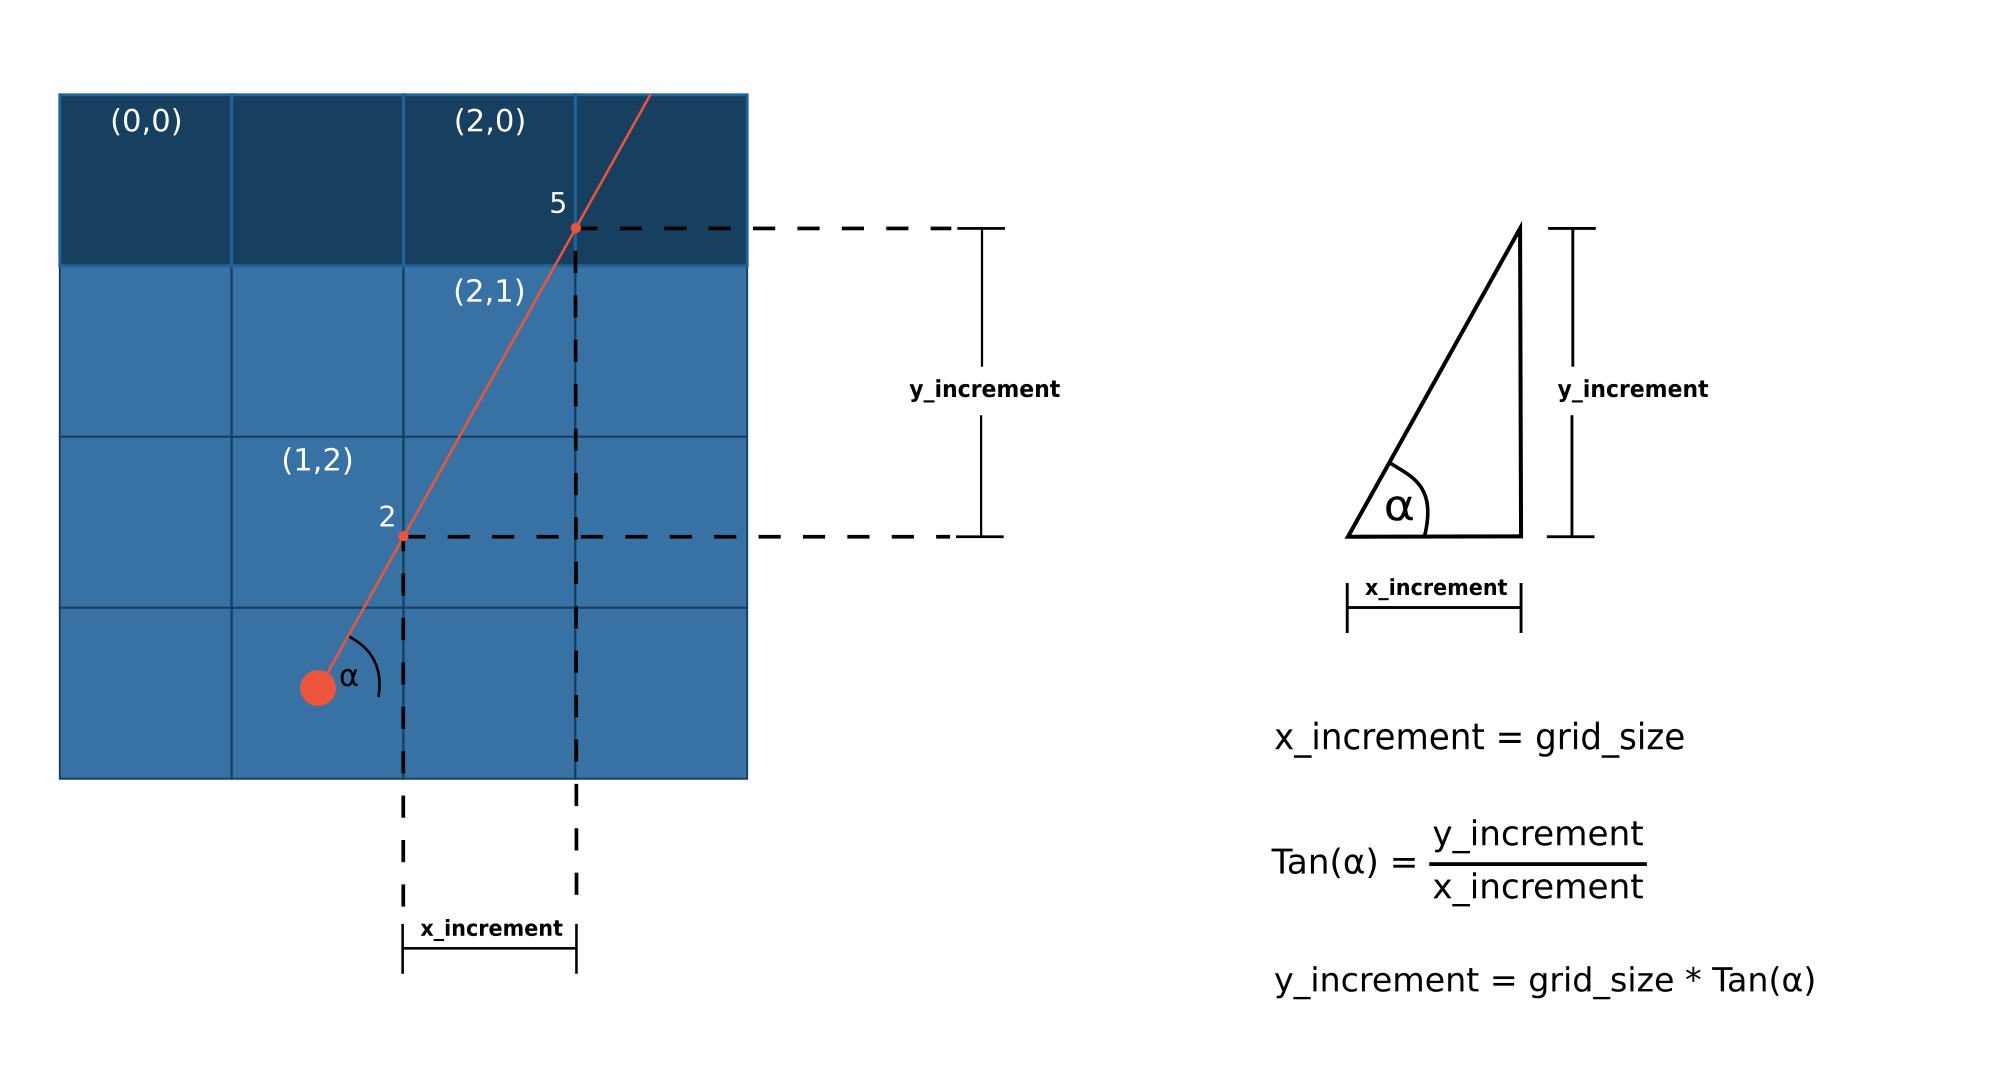
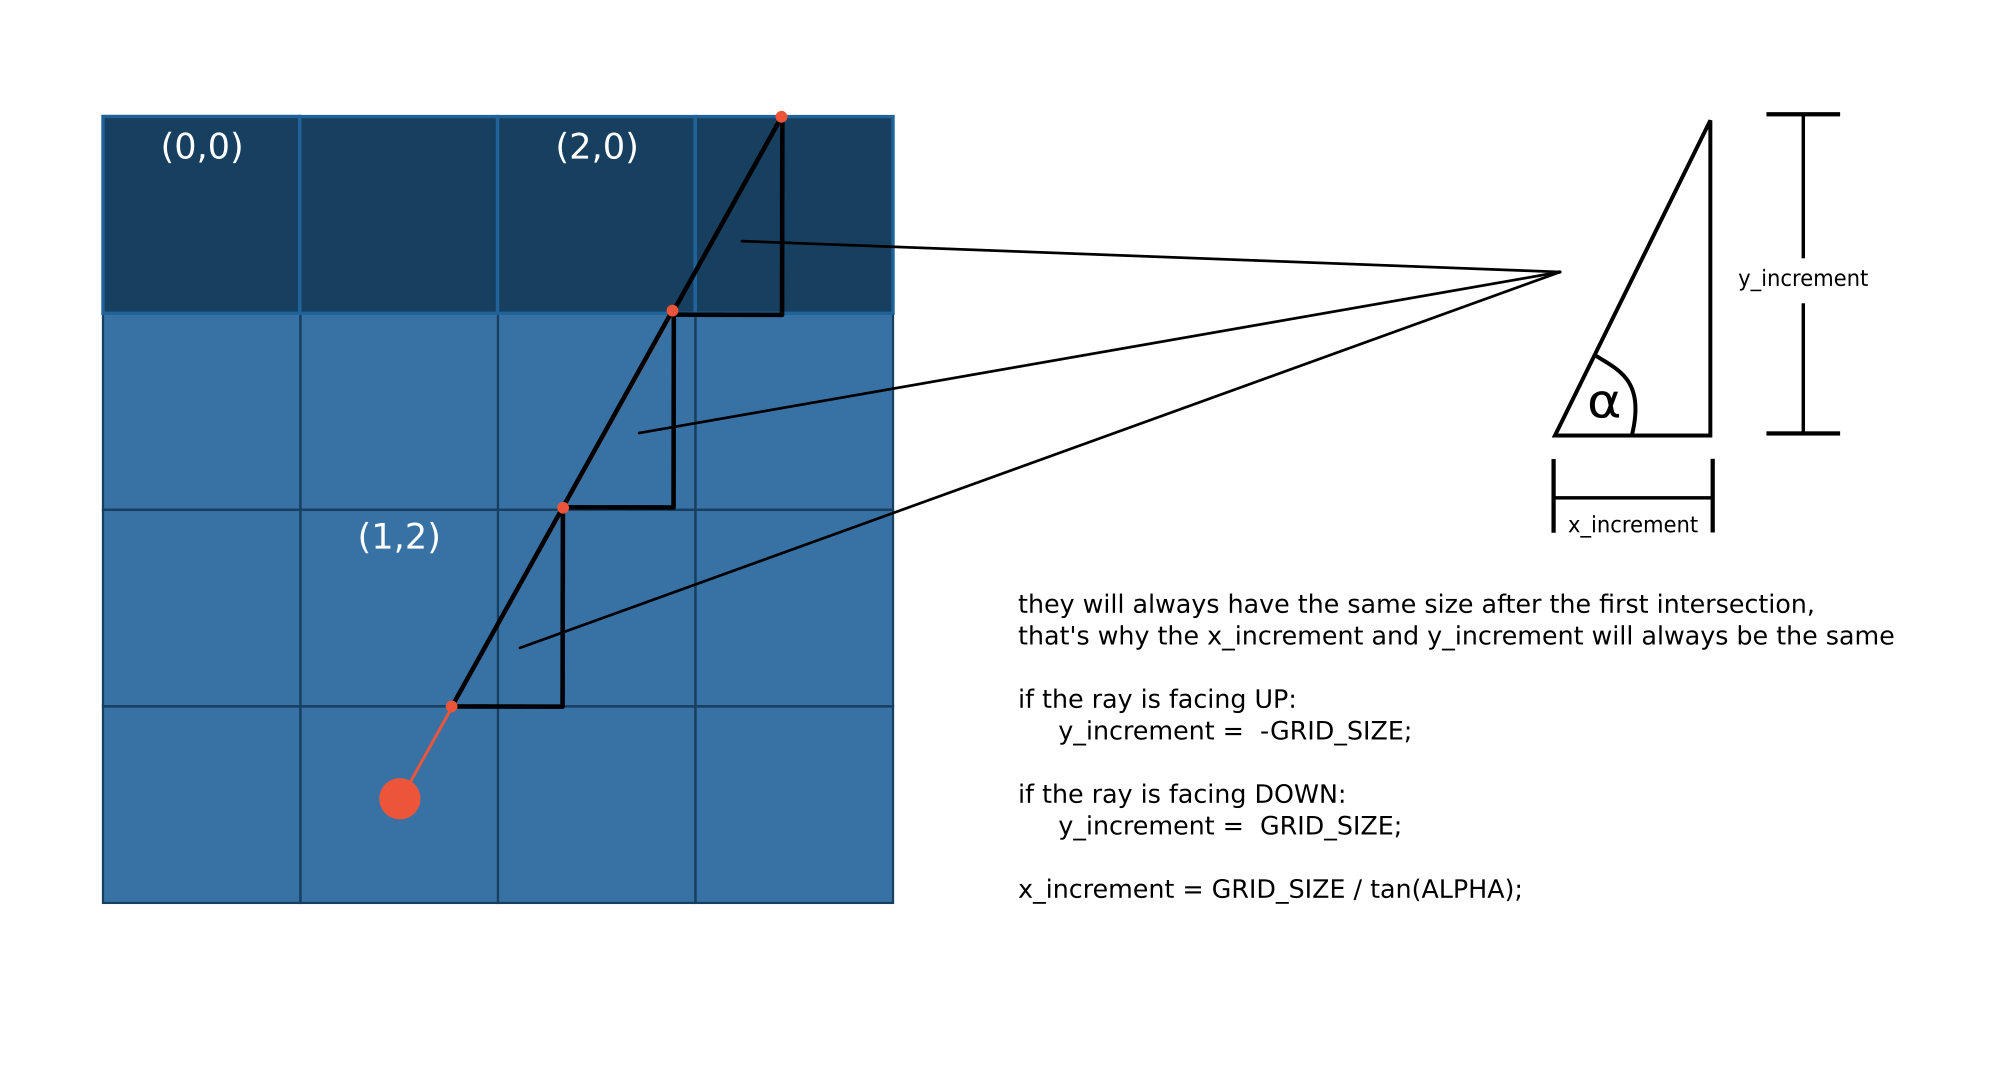
Adding more info to README

diff --git a/README.md b/README.md
@@ -6,7 +6,16 @@
   - [STEP 2: Defining projection attributes](#step-2-defining-projection-attributes)
   - [STEP 3: Finding walls](#step-3-finding-walls)
       - [Steps of finding intersections with horizontal grid lines:](#steps-of-finding-intersections-with-horizontal-grid-lines)
+        - [1. Finding y_increment](#1-finding-y_increment)
+        - [2. Finding x_increment](#2-finding-x_increment)
+        - [3. We can get the coordinate of the next intersection as follows:](#3-we-can-get-the-coordinate-of-the-next-intersection-as-follows)
+        - [4. Convert this into grid coordinate by dividing each component with GRID_SIZE.](#4-convert-this-into-grid-coordinate-by-dividing-each-component-with-grid_size)
+        - [5. repeat the process until we hit a wall.](#5-repeat-the-process-until-we-hit-a-wall)
       - [Steps of finding intersections with vertical grid lines:](#steps-of-finding-intersections-with-vertical-grid-lines)
+        - [1. Find coordinate of the first intersection (point 2 in this example).](#1-find-coordinate-of-the-first-intersection-point-2-in-this-example)
+        - [2. Find x_increment.](#2-find-x_increment)
+        - [3. Find y_increment](#3-find-y_increment)
+        - [4. Check the grid at the intersection point.](#4-check-the-grid-at-the-intersection-point)
 
 
 ## STEP 1: creating a world
@@ -123,98 +132,91 @@ As an example the following is how you can get the point 1:
 
 ![figure 11](./images/figure11.png)
 
-  1. Finding the coordinate of intersection 1.  
-     If the ray is facing up
-      **1.y = rounded_down( player_y / grid_size ) * (grid_size) - 1;**
-     If the ray is facing down
-      **1.y = rounded_down( player_y / grid_size ) * (grid_size) + grid_size;**
-
-   (In the picture, the ray is facing up, so we use
-   the first formula.
-   **1.y = rounded_down( 224 / 64 ) * (64) - 1 = 191;**
-   Now at this point, we can find out the grid 
-   coordinate of y.
-   However, we must decide whether A is part of 
-   the block above the line,
-   or the block below the line.  
-   Here, we chose to make A part of the block
-   above the line, that is why we subtract 1 from 1.y.
-   So the grid coordinate of 1.y is 191/64 = 2;
-
-   **1.x = player_x + (Py-1.y) / tan(ALPHA);**
-   In the picture, (assume ALPHA is 60 degrees), 
-   **1.x = 96 + ( 224 - 191 ) / tan(60) = about 115;**
-   The grid coordinate of 1.x is 115/64 = 1;
-
-   So 1 is at grid **(1,2)** and we can check 
-   whether there is a wall on that grid.
-   There is no wall on **(1,2)** so the ray will be 
-   extended to intersection 3.
-
-1. Finding y_increment
-   If the ray is facing up
-     **y_increment = -grid_size;**
-   If the ray is facing down
-     **y_increment = grid_size;**
-
-2. Finding x_increment
-   **x_increment = 64 / tan(60) = 36;**
-
-3. We can get the coordinate of intersection 3 as follows:
-   **3.x = 1.x + x_increment = 115 + 36 = 151;**
-   **3.y = 1.y + y_increment = 191 - 64 = 127;**
-   Convert this into grid coordinate by 
-   dividing each component with 64.  
-   The result is 
-   **3.x = 151 / 64 = 2 (grid coordinate),**
-   **3.y = 127 / 64 = 1 (grid coordinate)** 
-   So the grid coordinate of intersection 3 is **(2, 1)**.  
-   (C programmer's note: Remember we always round down, 
-   this is especially true since
-   you can use right shift by 8 to divide by 64).
-
-4. Grid **(2,1)** is checked.  
-   Again, there is no wall, so the ray is extended 
-   to intersection 4.  
+   (In the picture, the ray is facing up, so we use the first formula.
+      
+      1.y = rounded_down( 224 / 64 ) * (64) = 192;
    
-5. We can get the coordinate of D as follows:
-   **4.x= 3.x + x_increment = 151 + 36 = 187;**
-   **4.y= 3.y + y_increment = 127 - 64 = 63;**
-   Convert this into grid coordinate by 
-   dividing each component with 64.
-   The result is 
-   **4.x = 187 / 64 = 2 (grid coordinate),** 
-   **4.y = 63 / 64 = 0 (grid coordinate)** 
-   So the grid coordinate of D is (2, 0).  
+   The ray is facing up and we want to check the grid above the line, that's why we subtract 1 from it:
+      
+      1.y = 1.y - 1;
+      So the grid coordinate of 1.y is 191 / 64 = 2;
+   
+   if the ray were facing down, we'd do:
+      
+      1.y = 1.y + GRID_SIZE) // to check the bellow the line.
 
-6. Grid **(2,0)** is checked.  
-   There is a wall there, so the process stop.
+   In the picture, (assume ALPHA is 60 degrees),
+  
+      width = ( 224 - 191 ) / tan(60)
+      1.x = 96 + width = about 115;
+      The grid coordinate of 1.x is 115 / 64 = 1;
 
+   So 1 is at grid **(1,2)** and we can check whether there is a wall on that grid. There is no wall on **(1,2)** so the ray will be extended to the next intersection.
+
+![figure 12](./images/figure12.png)
+
+##### 1. Finding y_increment
+      If the ray is facing UP
+         y_increment = -GRID_SIZE;
+      Else
+         y_increment = GRID_SIZE;
+
+##### 2. Finding x_increment
+
+      x_increment = GRID_SIZE / tan(ALPHA);
+      in this case:
+      x_increment = 64 / tan(60) = 36
+
+##### 3. We can get the coordinate of the next intersection as follows:
+
+      3.x = 1.x + x_increment = 115 + 36 = 151;
+      3.y = 1.y + y_increment = 191 - 64 = 127;
+
+#####  4. Convert this into grid coordinate by dividing each component with GRID_SIZE.
+
+      3.x = 151 / 64 = 2 (grid coordinate)
+      3.y = 127 / 64 = 1 (grid coordinate) 
+
+So the grid coordinate of intersection 3 is (2, 1).  
+
+##### 5. repeat the process until we hit a wall.
+
+      x = x + x_increment;
+      y = y + y_increment;
 
 
 #Checking Vertical Intersections
 
-![figure 10](./images/figure12.png)
+![figure 10](./images/figure13.png)
 
 #### Steps of finding intersections with vertical grid lines:
 
-    1. Find coordinate of the first intersection (point 2 in this example).
-       The ray is facing right in the picture,so:
-       2.x = rounded_down(player_x / grid_size) * (grid_size) + grid_size.
-       If the ray had been facing left:
-       2.x = rounded_down(player_x / grid_size) * (grid_size) – 1.
-       2.y = player_y + (player_x - 2.x) * tan(ALPHA);
-    2. Find x_increment.
-       (Note: x_increment is just the width of the grid; however, if the ray is facing right, x_increment will be positive, if the ray is facing left, y_increment will be negative.)
-    3. Find Ya using the equation given above.
-    4. Check the grid at the intersection point. If there is a wall on the grid, stop and 
-       calculate the distance.
-    5. If there is no wall, extend the to the next intersection point. Notice that the coordinate of the next intersection point -
-    
-    call it (Xnew,Ynew)
-    Xnew = Xold + x_increment
-    Ynew = YOld + y_increment.
 
-In the picture, first, the ray hits point 2. Grid (2,2) is checked. There no wall on (2,2) so the ray is extended to 5. Grid (3,0) is checked. There is a wall there, so we stop and calculate the distance.
+##### 1. Find coordinate of the first intersection (point 2 in this example).
 
-In this example, point 4 is closer than 5. So the wall slice at 4 (not 5) will be drawn.
+   The ray is facing right in the picture,so:
+
+      2.x = rounded_down(player_x / GRID_SIZE) * (GRID_SIZE) + GRID_SIZE.
+  
+   If the ray had been facing left:
+      
+      2.x = rounded_down(player_x / GRID_SIZE) * (GRID_SIZE) – 1.
+      2.y = player_y + (player_x - 2.x) * tan(ALPHA);
+
+##### 2. Find x_increment.
+
+      If the ray is facing RIGHT
+         x_increment = GRID_SIZE;
+      Else
+         x_increment = -GRID_SIZE;
+
+##### 3. Find y_increment
+
+      y_increment = GRID_SIZE * tan(ALPHA);
+
+##### 4. Check the grid at the intersection point.
+
+      If there is no wall we repeat the process until we find one:
+      x = x + x_increment
+      y = y + y_increment.
+
